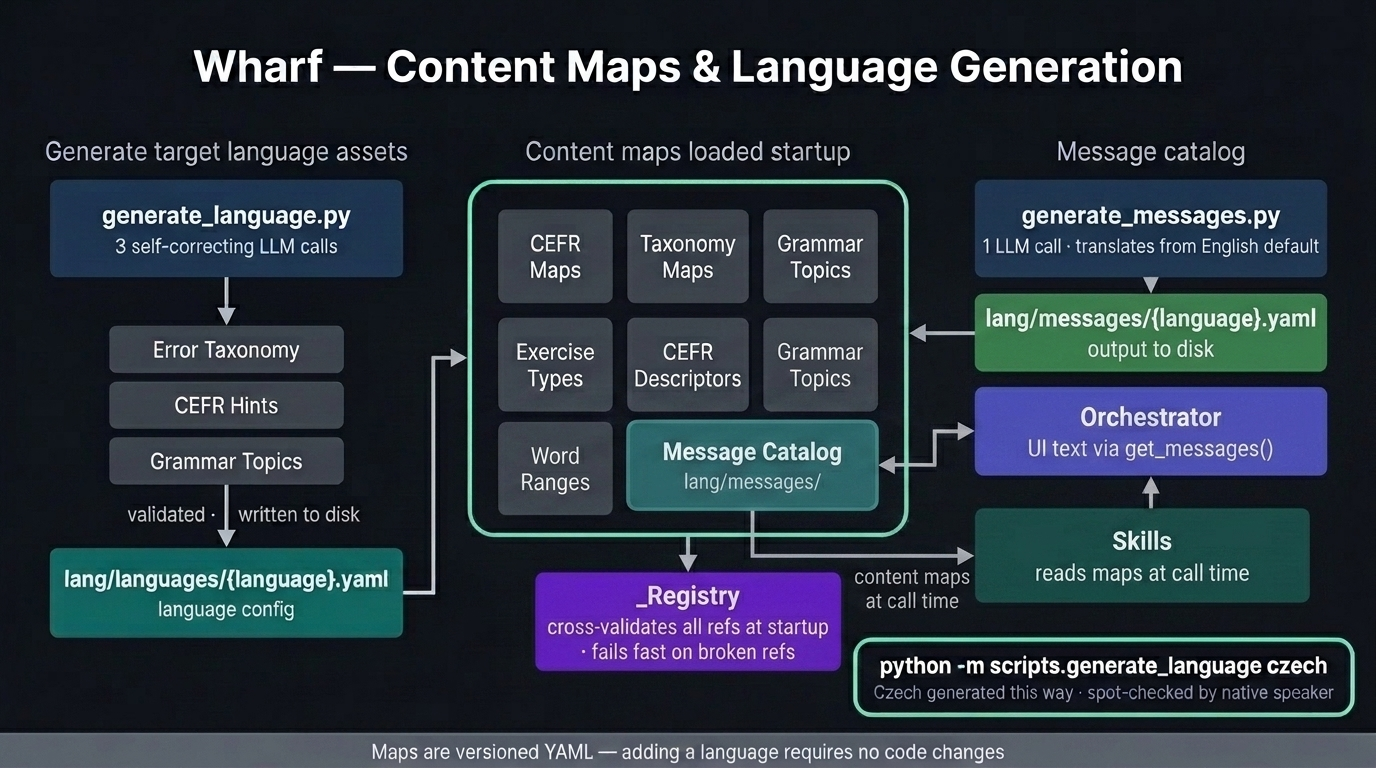
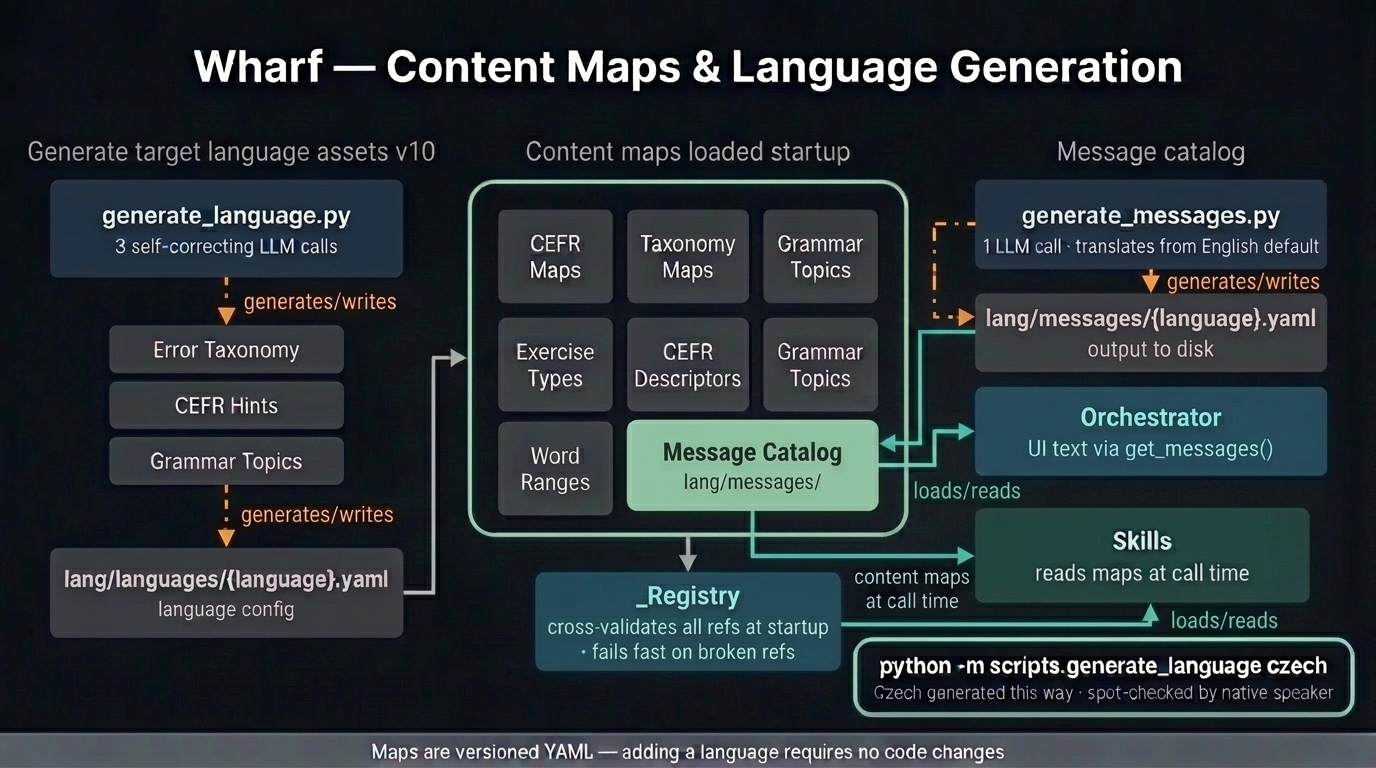
docs: add writeup draft, diagrams, README expansion, and competitive landscape update
- Add docs/kaggle_writeup_draft.md: full Kaggle capstone writeup covering problem,
  Three-Grain Architecture, personalization loop, language asset generation,
  deployability, testing strategy, and project journey
- Add docs/img/personalization_loop.jpg: visual flowchart of Writing<->Grammar loop
  including session routing, error logging, and topic mastery push-back
- Add docs/img/testing_strategy.jpg: three-tier testing strategy diagram
- Update docs/img/content_pipeline.jpg: fix arrow directionality and build-time vs
  run-time flow distinction (dashed orange = generates, solid teal = loads)
- Expand README.md: problem statement, architecture overview, layer status table,
  competitive landscape summary, and known limitations
- Update docs/competitive_landscape.md: verify and refresh competitor claims
- Update docs/_CHECKLIST.md: mark writeup, pricing, and diagram tasks as done

diff --git a/docs/kaggle_writeup_draft.md b/docs/kaggle_writeup_draft.md
@@ -1,0 +1,163 @@
+# Wharf: Demolishing the Paywall of Corrective Language Tutoring with a Multi-Agent Architecture
+
+### Capstone Writeup
+* **Track:** Agents for Good (Advancing Education)
+* **Author:** cookieTroll
+* **GitHub Repository:** [https://github.com/cookieTroll/language-tutor](https://github.com/cookieTroll/language-tutor)
+
+---
+
+## 1. Executive Summary & Problem Statement
+
+Wharf is a language learning tool built entirely around language output. This project was born out of a real-world struggle. After moving to Germany as a working professional with zero prior knowledge of German, I hit two massive roadblocks to achieving fluency:
+1. **The Production Bottleneck:** Traditional language apps focus on passive recognition like flashcards or clicking pre-arranged words. But to learn fast, you need active production such as writing and speaking, paired with immediate, corrective feedback.
+2. **The Flexibility and Cost Trap:** Private tutors are expensive, and group classes lock you into rigid schedules. Even in those settings, a teacher's bandwidth for grading essays and providing detailed, personalized feedback is limited.
+
+Large Language Models (LLMs) are uniquely suited to language processing, offering a natural solution. However, getting feedback from raw LLM chats (like pasting sentences into ChatGPT or Claude) is cumbersome. It forces you to juggle several different environments (chat web apps for translation, separate note files for error tracking, and flashcard apps for vocabulary review) and lacks good persistence. With no historical memory of what you have practiced, no error tracking, and no adaptive routing, every session starts from scratch.
+
+Wharf bridges this gap. It is a self-hosted, multi-agent AI language tutor designed to make corrected-output feedback free or almost free, private, and personalized. Operating on a client-owned LLM API key or a fully offline local model, Wharf tracks progress, identifies recurring errors, dynamically builds custom grammar exercises, and routes the student through a personalized learning path.
+
+---
+
+## 2. Why Agents? Beyond Single LLM Calls
+
+A simple "correct this text" prompt is insufficient for language learning. If a student is given a list of raw corrections, they do not learn *why* they were wrong, how it relates to their current proficiency level, or how to practice that specific grammatical concept.
+
+Wharf replaces the single-prompt approach with an agentic architecture that orchestrates multiple specialized components:
+- **Intelligent Routing:** The system decides whether to prompt the user for free-writing, recommend a targeted grammar lesson based on historical weaknesses, or continue a previous thread.
+- **Multi-Step Evaluation:** The writing evaluator is a structured pipeline that isolates concerns (e.g., level estimation, mistake detection, false-positive verification, pedagogical explanation) into separate steps, preventing LLM context dilution and hallucinations.
+- **Cross-Competency Bridge:** While commercial platforms offer basic streak and progress tracking, their competencies are siloed. Wharf integrates these: when a pattern of recurring errors is detected in the writing module, it triggers a state transition that dynamically recommends a custom grammar lesson and drill on the fly, bridging the two skills.
+- **Dynamic Asset Generation:** Adding support for a new target language requires synthesizing a pedagogical syllabus (CEFR hints, error taxonomies). Wharf utilizes a self-correcting agent chain to generate these YAML assets dynamically from scratch.
+
+---
+
+## 3. System Architecture & Core Design Decisions
+
+Wharf is implemented using a custom **Three-Grain Architecture** designed to enforce strict separation of concerns, testability, and load-bearing interface contracts. 
+
+![Wharf — Three-Grain Architecture](img/architecture.jpg)
+
+### Grain 1: Skills (Atomic Actions)
+Skills are the smallest functional units (e.g., `detect_mistakes`, `explain_mistakes`, `grade_exercises`). 
+* **Purity:** Skills are stateless and pure. They have no knowledge of the database, the active user, or specific provider SDKs. They receive input via typed dataclasses (`SkillInput`), call the LLM through a unified abstraction (`BaseLLM`), validate the JSON response using Pydantic, and return a typed `SkillOutput`.
+* **Shared Pool:** All skills reside in a top-level `skills/` directory. They are a shared, project-wide asset pool. For example, the `btw_handler` (an inline translation and Q&A assistant) is a utility skill that can be injected into any module.
+
+### Grain 2: Modules (Sub-Agents)
+Modules (e.g., `WritingModule`, `GrammarModule`) represent specific competencies. 
+* **Orchestration:** A module receives a set of injected skills and a `ModuleContext` (containing the user profile and past logs). It orchestrates the execution flow. For example, the `WritingModule` coordinates the 7-step evaluator pipeline.
+* **Storage-Decoupled:** Modules do not write to disk or query the database. They declare what data they need via a `ContextRequest` and return their outcomes via a `ModuleResult`.
+
+### Grain 3: Orchestrator (Top-Level Agent)
+The Orchestrator is the single, authoritative coordinator. 
+* **State & Persistence:** It is the only component allowed to touch the database (`memory/`). It handles cold starts, manages session checkpoints, aggregates logs, and persists session files, vocabulary flags, and mistake tags.
+* **Routing:** On startup, it reads the user’s history, builds a progress summary, and routes the student to the appropriate competency module.
+
+### The Memory Boundary & Protocols
+The boundary is enforced by code, not convention. Because modules and skills are pure and communicate via typed protocols (`ModuleProtocol`, `SkillProtocol`), they can be developed and tested in isolation without spawning a database or making real network calls.
+
+---
+
+## 4. The Centerpiece: The Writing↔Grammar Personalization Loop
+
+The core pedagogical value of Wharf lies in the bidirectional bridge between the Writing and Grammar competencies, sharing one history.
+
+![Wharf — Personalization Loop](img/personalization_loop.jpg)
+
+1. **Error Detection and Taxonomy Mapping:** 
+   When a student completes a writing session, their text is processed. The `detect_mistakes` skill highlights erroneous fragments. The `verify_mistakes` skill filters out false positives by double-checking the candidate errors against the sentence context. The `classify_mistakes` skill maps the errors to a structured, language-specific taxonomy (e.g., `verb_conjugation`, `noun_adjective_agreement`).
+
+2. **Pedagogical Explanation and Severity:** 
+   Feedback is calibrated to the student's current CEFR level. If an A2 student makes a B2-level error (e.g., complex subjunctive usage), the system flags it as `minor` and provides a brief hint. If they make a basic A1 error (e.g., subject-verb agreement), it is flagged as `critical` and triggers a detailed, structural explanation.
+
+3. **Routing to Grammar Drills:** 
+   The Orchestrator monitors the frequency of error tags. If a specific taxonomy tag recurs (frequency $\ge 2$) within the session logs, the Orchestrator generates a bridge recommendation. Upon starting the next session, the learner is prompted: *"We noticed a recurring issue with Verb-Second Word Order. Would you like to practice this now?"*
+
+4. **Dynamic Theory & Exercise Generation:** 
+   If accepted, the `GrammarModule` is invoked:
+   - `dump_grammar` generates a concise theory sheet for that specific error category.
+   - `generate_exercises` generates custom gap-fill or sentence-reformulation drills on the fly.
+   - `grade_exercises` evaluates the responses, updates the mastery ratio in the SQLite store, and registers vocabulary flags for terms the user queried mid-session via `/btw`.
+   
+Once a grammar topic is mastered, the bridge operates in reverse: the Orchestrator suggests a writing topic designed to elicit the newly mastered grammar pattern, closing the loop.
+
+---
+
+## 5. Automated Language Asset Generation (Validation vs. Rewrite)
+
+Supporting multiple target languages (L2) and different communication languages (L1) traditionally requires hand-crafting grammatical taxonomies, CEFR rules, and localized UI strings. This approach does not scale.
+
+Wharf solves this via a **data-driven language subsystem** (`lang/`). All language-specific rules, taxonomies, and localized UI strings reside in versioned YAML files (`lang/languages/` and `lang/messages/`). The loader (`lang/loader.py`) parses and cross-validates these references at startup, acting as a compiler that fails fast if files refer to non-existent maps.
+
+To add a language, a developer runs:
+```bash
+python -m scripts.generate_language czech
+```
+
+This script triggers a three-stage self-correcting agent pipeline:
+1. **Taxonomy Synthesis:** Generates a structured error taxonomy tailored to the target language's grammatical features.
+2. **Pedagogical Asset Generation:** Creates CEFR-specific hints and writing prompt requirements.
+3. **Grammar Curriculum Synthesis:** Establishes the roadmap of grammar topics to be taught.
+
+Each step is constrained by Pydantic schemas. If the generated YAML violates the registry's validation checks, the error is fed back to the LLM for self-correction. By using this pipeline, the target language **Czech** was generated from scratch. Native-speaker spot-checks confirmed that the output was highly accurate, proving that adding a language is a **validation task, not a codebase rewrite**.
+
+![Wharf — Automated Language Asset Generation](img/content_pipeline.jpg)
+
+---
+
+## 6. Deployability, Configuration & Security
+
+Wharf prioritizes user choice between cloud capability and absolute privacy, implementing key course concepts directly:
+
+### Configurable LLM Backend & Deployability
+A single configuration file switcher (`LTUT_CONFIG`) changes the execution environment without code modifications:
+- **Local Path (Ollama):** Targets local models (defaulting to `gemma2:9b`). Perfect for offline, zero-data-leak execution. Running locally requires suitable hardware (a dedicated GPU with ~6–8 GB VRAM to achieve acceptable token generation speeds). Local models represent the lower end of feedback accuracy compared to hosted commercial alternatives.
+- **Hosted Path (Gemini / Vertex AI):** Targets hosted models. A typical session (100-word essay evaluation or grammar drill) costs a fraction of a cent on `gemini-2.5-flash`. A full study monthly load of 60 sessions (2 sessions/day combining essay grading, grammar theory dumps, and exercises) runs **roughly €1 per month**. The prompt context (system prompts and taxonomy details) represents the bulk of the cost, making pricing highly flat and predictable. Furthermore, as a local library of generated lessons and exercises is gradually compiled, subsequent study sessions on those cached topics bypass the LLM entirely, reducing upkeep costs even further.
+- **Vertex AI:** Uses Application Default Credentials (ADC), allowing enterprises to authenticate natively via IAM without managing static keys.
+
+### Security Posture
+- **Key Isolation:** API keys are never hardcoded; `config.py` resolves `${VAR_NAME}` syntax against the operating system's environment variables at runtime.
+- **Strict Input/Output Validation:** Every LLM response is Pydantic-validated. All user-input strings are sanitized, and the web UI enforces path-traversal guards on file reads, checking that resolved paths stay strictly within the designated `data_root`.
+
+---
+
+## 7. Testing Strategy: Three-Tier Offline Testing & LLM-as-a-Judge
+
+To verify the agentic pipelines without generating massive API bills or relying on live connections, Wharf uses a three-tier testing architecture:
+
+![Wharf — Three-Tier Testing Strategy](img/testing_strategy.jpg)
+
+1. **Tier 1: Unit Tests (Deterministic)**
+   Wharf includes **379 unit tests** that execute in under 20 seconds. They run completely offline against a `MockLLM` and an isolated memory-resident JSON store, verifying state transitions, menu routing, and edge-case configs.
+
+2. **Tier 2: Semantic Evaluation (LLM-as-a-Judge)**
+   Because grading and correcting text are subjective, unit tests cannot verify quality. The `tests/judge/` suite implements a two-LLM judge framework:
+   - One model executes the skill (e.g., `detect_mistakes`).
+   - A separate, larger evaluator model grades the output against ground-truth student submissions.
+   - This suite was used to select the default local model: `gemma2:9b` achieved 12/12 correct evaluations on the mistake detection benchmark, whereas `qwen2.5:7b` failed 4 evaluations, setting `gemma2:9b` as our local baseline.
+
+3. **Tier 3: Regression Suite**
+   Whenever a prompt hallucination or bug is identified, a test case is added to the regression suite. The rule "Tests before commit" is enforced workspace-wide to ensure zero regression before code changes are merged.
+
+---
+
+## 8. Project Journey, Honest Scope & Limitations
+
+### Project Scope & Current Limitations
+Wharf is a functional tool, but it has defined boundaries:
+- **Language Scope:** The pedagogical taxonomies are fully validated for German (A1–B2). Czech has been generated and validated at the file level but has not been put through long-term student trials.
+- **Hardware Boundary:** While the hosted Gemini path runs on any lightweight client, the offline path requires suitable local hardware (a dedicated GPU with at least 6–8 GB VRAM to run the tutor model at usable speeds). Additionally, local models represent the lower end of grading and pedagogical accuracy compared to hosted commercial options.
+- **Bridge Horizon:** The writing↔grammar bridge computes recurring errors within a single session's scope. Cross-session historical aggregation is a planned improvement.
+- **Single-User Auth:** The current Flask web app is single-user or self-hosted, storing data relative to a local root folder. Multi-user SaaS deployment would require adding a web-security and OAuth layer.
+
+### What Was Learned & Future Outlook
+
+Building Wharf was a personal journey that allowed me to explore several advanced engineering paradigms:
+- **Local Model Serving:** Configured and evaluated offline models locally using Ollama, navigating the trade-offs of hardware requirements versus latency and accuracy.
+- **Strict Contractual Boundaries:** Designed a comprehensive project around a Three-Grain Architecture where interfaces are enforced by strict boundaries. Pure skills and modules communicate through explicit schemas, proving that LLM inputs/outputs can be caged safely.
+- **LLM-as-a-Judge Evaluation:** Implemented a two-LLM evaluation benchmark. While this was done in a limited scope (variance and temperature stability were not statistically tested), the test results were validated by manual reviews and served as a reliable baseline for model selection.
+- **Intent-Driven Coding:** Experienced intent-driven development by pairing with an agentic coder. Expressing design thoughts via high-level goals and letting the agent synthesize code, synchronize documentation, and run verification loops represents a fundamental shift from traditional coding paradigms.
+
+Since the core orchestrator and the memory boundaries are solid, expanding Wharf to other competencies is straightforward. The future roadmap includes:
+1. **Unified Vocabulary & Note Ingestion:** Building an OCR and LLM pipeline to process handwritten study notes and import them along with Anki cards into Wharf, making it a single place where vocabulary is tracked and revised.
+2. **Engaging Reading Module:** Developing a reading comprehension module connected to web media and articles, letting students read interesting content and answer contextual questions.
+3. **Listening & Speaking:** Tackling the most challenging competencies: first, a listening comprehension module, and second, an interactive speaking module leveraging text-to-speech and speech-to-text integrations.

diff --git a/docs/competitive_landscape.md b/docs/competitive_landscape.md
@@ -1,44 +1,48 @@
-# Competitive Landscape — Auto-Graded Writing
+# Competitive Landscape & Positioning
 
-Summary of how the writing module's auto-grading pipeline (`docs/writing.md`) compares to
-existing tools that give learners automated feedback on free-text writing. Written 2026-07-05
-for reference by other agents/collaborators working on this feature; re-verify claims before
-relying on them for anything time-sensitive (competitor products change).
+This document compares Wharf against commercial, academic, and general-purpose alternatives for language learning. It highlights how Wharf's architecture resolves the trade-offs between feedback quality, competency integration, language extensibility, and pricing.
 
-## Our pipeline, in one line
+---
 
-Free-text submission → parallel CEFR level estimate + mistake detection → context-based
-false-positive verification → per-language taxonomy classification → level-calibrated
-explanation → corrected rewrite + severity-tagged summary, with an inline `/btw` Q&A loop
-mid-session. See `modules/writing/pipeline.py`.
+## The Landscape: Where Competitors Fall Short
 
-## Closest comparators
+- **Gamified, Canned Curricula:** Apps like Duolingo prioritize engagement over depth, offering simple recognition tasks (matching, sorting) rather than free-text production. While they track your streak and progression through a linear, pre-authored lesson tree, they lack the ability to adapt their actual curriculum or exercises dynamically based on your free-form writing errors.
+- **Siloed Competency Apps:** Corrective writing tools (e.g., Cambridge Write & Improve) or grammar apps operate in isolation, lacking a shared memory of the user's strengths and weaknesses across skills.
+- **High Subscription Barriers:** Platforms that offer deep corrective feedback (e.g., Grammarly Premium, Duolingo Max, or premium human tutors) are locked behind high subscription paywalls ($10 to $30 per month).
 
-| Tool | Mechanism | Overlap | Gap vs. ours |
-|---|---|---|---|
-| **Cambridge Write & Improve** | Supervised ML classifier trained on 30M-word error-annotated corpus | Free-text submission, CEFR-aligned feedback, revision loop — nearest existing analog | English-only; no false-positive verification step, no error taxonomy, no severity tiers, no level-calibrated explanation depth |
-| **Duolingo Max** | GPT-4 "Explain My Answer" / roleplay | LLM-based feedback | Scoped to short in-lesson answers, not free-essay grading with structured error output |
-| **Busuu** | Human peer correction (native speakers) | Corrective feedback on learner writing | Not automated; quality/turnaround depends on volunteer availability (minutes to days) |
-| **Grammarly** | General-purpose grammar/style correction | Error detection + correction | No CEFR calibration, no L2 pedagogy, not multilingual for language-learning use |
-| Academic prototypes (CWLA/CEFR-J scoring, FeedbackWriter, GPT-4 L2 analytic assessment studies) | LLM/ML CEFR scoring | Validates the "LLM as writing-feedback engine" approach | Research prototypes, not shipped multilingual products |
+---
 
-Informal baseline: many learners just paste text into ChatGPT and ask for corrections. Our
-pipeline's edge over that is structural — verification, taxonomy, severity — not just "LLM
-graded my writing."
+## Detailed Competitor Comparison
 
-## Differentiation
+| Tool Class / Example | Core Focus & Depth | Language Support & Setup | Pricing Model | Gaps vs. Wharf |
+|---|---|---|---|---|
+| **Passive Drill Apps**<br>(e.g., Duolingo, Memrise) | **Shallow Recognition:** Mostly multiple-choice, reordering, and short translation drills. Duolingo Max offers "Roleplay" and "Video Call," but its "Explain My Answer" is restricted to pre-authored lesson prompts. | **Pre-authored Courses:** Limited language pairs. Adding a target language requires manually authoring an entire pedagogical tree. | Free basic (ad-supported); Super Duolingo (€10.25/mo annual); Duolingo Max (~€14.99/mo). Max is iOS/Android only. | No open free-text evaluation; rigid linear paths; no cross-competency adaptive memory. |
+| **Corrective Writing Engines**<br>(e.g., Cambridge Write & Improve) | **Deep Writing Feedback:** CEFR-aligned scoring, spelling/grammar corrections on free-text writing. | **English Only:** Built on a static, hand-annotated 30M-word English learner corpus. Cannot be extended to other target languages. | Free basic tier; paid packages for specialized exam preparation (e.g., IELTS, B2 First). | English-only; no grammar instruction; no session-to-session memory or personalization; no local execution. |
+| **General Proofreaders**<br>(e.g., Grammarly, LanguageTool Premium) | **Correction, Not Pedagogy:** Identifies grammatical and stylistic errors for native or professional writing. Does not explain the L2 rules or align feedback to the user's CEFR level. | **Fixed Major Languages:** Supports standard lists (LanguageTool supports ~30 languages). Cannot configure the explanation language independently. | Subscription-based. Grammarly Premium is $12–$30/mo; LanguageTool Premium is ~$19.90/mo (or ~$4.99/mo annual). | No pedagogical explanation; no CEFR-targeted feedback; no integrated curriculum or active memory. |
+| **Peer Correction Platforms**<br>(e.g., Busuu Community, Lang-8) | **Human Accuracy:** Native speakers verify and correct user-submitted writing. | **Any Language:** Dependent on active native speakers in the community. | Included in Busuu's free tier and premium plans ($6 to $15/month). | **Slow loop:** Feedback takes minutes to days. Quality is unstructured, variable, and relies on user reciprocity. |
+| **Raw LLM Prompting**<br>(e.g., ChatGPT / Claude Web App) | **High Versatility:** Strong translation, explanation, and error correction capabilities. | **Extremely Flexible:** Supports a vast array of target and explanation languages out of the box. | Free tiers (with data sharing/limits) or $20/mo subscription. | **No persistence:** Every chat starts from zero. Lacks persistent error tracking, progress statistics, and local execution. |
 
-No comparator bundles all of:
-1. **Multi-language taxonomy** (`lang/maps/taxonomy/`) rather than English-only.
-2. **False-positive verification** — re-checks each candidate error against sentence context
-   before it reaches the learner (`skills/verify_mistakes/`).
-3. **Severity tagging** (critical/expected/minor) alongside CEFR-calibrated explanation depth.
-4. **Inline `/btw` Q&A** during composition, not just post-hoc feedback.
+---
 
-Write & Improve is the strongest existing match in spirit but is English-only and lacks (2)-(4).
+## Wharf's Four Pillars of Differentiation
 
-## Open question for positioning
+### 1. Unified Competency Memory
+Commercial platforms typically silo different skills (e.g., vocabulary drills in one app, grammar in another, writing elsewhere). While some premium AI tiers (like Duolingo Max's review rounds or Busuu's vocabulary lists) track your history, their persistence is shallow. A mistake in a writing prompt does not trigger the app to automatically rewrite your curriculum, generate a targeted grammar theory sheet, and compose custom drills on the fly. Wharf solves this with a **Three-Grain Architecture** where all competencies share a single orchestrator and storage layer. 
+- *Bridged Competencies:* Today, the writing and grammar modules are bridged. If a user consistently struggles with "adjective endings" in writing, the Orchestrator automatically intercepts the error taxonomy and routes them to a targeted grammar session on that rule.
+- *Extensible Profile:* As reading, listening, and speaking modules are introduced post-submission, they will share the exact same user profile, vocabulary flags, and historical trend data.
 
-Since the strongest analog is free and English-only, the biggest differentiation value is
-likely in **non-English target languages with this level of structured pedagogy** — that gap
-isn't filled by any product found in this pass.
+### 2. Pedagogy & Structured Production Depth
+Rather than gamifying learning with quick recognition loops, Wharf forces learners to actively produce language:
+- **Writing Module:** Learner-composed free text is evaluated through a structured 7-step pipeline (estimate text level → detect mistakes → verify to eliminate false positives → classify against taxonomy → explain rules → write corrections → summarize session).
+- **Grammar Module:** Rather than serving static, pre-written exercises, Wharf generates a tailored grammatical theory explanation and custom exercises on the fly based on the learner's historic error tags.
+
+### 3. Language & Explanation Personalization (Validation, Not Rewrite)
+For target and explanation languages using Latin-based alphabets and supported by major LLM pretraining:
+- **Target Language Independence:** Adding a target language is data-driven. `scripts/generate_language.py` runs a 3-step self-correcting LLM chain (taxonomy → CEFR hints → grammar topics) and validates it against Pydantic schemas. Spot-checks on a smaller target language (Czech) verified that the generated assets are highly accurate out of the box, requiring only minor validation rather than manual development.
+- **Explanation Personalization:** The user can configure the `explanation_language` (e.g., getting Czech explanations for German grammar). UI strings are dynamically translated via message catalogs (`lang/messages/{language}.yaml`).
+
+### 4. Cost Disruption & Privacy
+Wharf shifts the economic model of language tutoring:
+- **Offline / Local Path (Ollama):** Run completely offline and free on local hardware. Note that this requires suitable hardware (a dedicated GPU with ~6–8 GB VRAM to run models like `gemma2:9b` or `qwen2.5:7b` at acceptable speeds). Furthermore, local models represent the lower end of grading and pedagogical accuracy compared to hosted commercial models, though they provide complete privacy.
+- **Hosted Path (Gemini / Vertex):** By leveraging the learner's own API keys (Gemini 2.5 Flash), a complete session (100-word writing evaluation or custom grammar drill) costs a fraction of a cent. A full study monthly load of 60 sessions (2 sessions/day) runs **roughly €1 per month**. The prompt overhead (system instructions and context) represents the bulk of the cost, making the price highly flat and predictable. Furthermore, as a local library of generated lessons and exercises is gradually compiled, subsequent study sessions on those cached topics bypass the LLM entirely, reducing upkeep costs even further.
+- This is a structural cost difference compared to automated correctors or AI features (like Duolingo Max at ~$15/mo or Grammarly Premium at $12–$30/mo) which charge fixed, high monthly subscription fees regardless of actual study volume.

diff --git a/README.md b/README.md
@@ -1,30 +1,28 @@
 # Wharf the Language Tutor
 
-An AI language tutor that gives you the corrected-output feedback loop normally locked
-behind a subscription — running on your own API key or a fully local model, free either way.
+Wharf is a language learning tool built entirely around language output. It is a self-hosted, multi-agent AI language tutor that provides the deep, corrected-output feedback loop normally locked behind a subscription. It runs on your own API key or a fully local model, free or almost free either way: 60 sessions per month costs roughly €1, which is less than a single espresso.
 
-## The Problem
+## The Problem: A Personal Journey
 
-Building fluency in a language requires producing it — writing, speaking — and getting
-corrective feedback on what you got wrong and why. That feedback loop is the part
-existing tools tend to get wrong:
+This project was born out of a real-world struggle. After moving to Germany as a working professional with zero prior knowledge of German, I hit two massive roadblocks to achieving fluency:
 
-- **Passive tools** (Duolingo and most drill apps) build recognition, not production.
-  They won't tell you why your sentence was wrong or how to fix it.
-- **Tools with genuine corrective feedback** (Cambridge Write & Improve, Grammarly's
-  advanced tier, tutored platforms) sit behind subscription paywalls — or require a
-  human tutor whose time is finite and shared across an entire class.
-- **Raw LLM prompting** (pasting into ChatGPT) gives you feedback, but with no memory
-  of what you've practiced, no error tracking, and no adaptive routing — every session
-  starts from zero.
+1. **The Production Bottleneck:** Traditional language apps focus on passive recognition like flashcards or clicking pre-arranged words. But to learn fast, you need active production such as writing and speaking, paired with immediate, corrective feedback.
+2. **The Flexibility and Cost Trap:** Private tutors are expensive, and group classes lock you into rigid schedules. Even in those settings, a teacher's bandwidth for grading essays and providing detailed, personalized feedback is limited.
 
-Wharf is built around one claim: corrected-output feedback should be free, persistent,
-and adaptive. It runs on your own API key (Gemini, Vertex AI) or a fully local model
-(Ollama — free, private, no data leaving your machine), and it remembers what you've
-practiced across every session.
+Large Language Models (LLMs) are uniquely suited to language processing, offering a natural solution. However, getting feedback from raw LLM chats (like pasting sentences into ChatGPT or Claude) is cumbersome. It forces you to juggle several different environments (chat web apps for translation, separate note files for error tracking, and flashcard apps for vocabulary review) and lacks good persistence. With no historical memory of what you have practiced, no error tracking, and no adaptive routing, every session starts from scratch.
 
-See [`docs/competitive_landscape.md`](docs/competitive_landscape.md) for a detailed
-comparison against named existing tools.
+Wharf bridges this gap by providing a structured, multi-agent feedback loop that is persistent, adaptive, and runs on your own API key or a fully offline local model.
+
+## Why Wharf? Key Differentiators
+
+Unlike generic AI chats or commercial language apps, Wharf is built on four core pillars:
+
+1. **Unified Competency Memory:** Instead of siloed exercises, progress is tracked globally. A mistake in writing automatically routes the student to a targeted grammar session on that topic.
+2. **True Language Independence (Validation, Not Rewrite):** The architecture is entirely data-driven via YAML maps. Supporting a new target language or explanation language does not require code changes — only running the generator script and a native speaker spot-check (as validated with Czech).
+3. **Structured Production Depth:** Moves past simple multiple-choice or sentence-reordering drills. Focuses on free-text writing evaluated by a 7-step pipeline (estimation, detection, verification, taxonomy classification, explanation, correction, summary).
+4. **Extreme Cost Disruption:** Runs completely free and local on suitable hardware, or costs **roughly €1 per month** for a standard study load of 60 sessions (e.g., 2 sessions/day combining essay grading, grammar dumps, and drills) using hosted `gemini-2.5-flash` API keys. This eliminates standard monthly subscription paywalls (€10 to €30/month) for advanced tutoring features.
+
+See [`docs/competitive_landscape.md`](docs/competitive_landscape.md) for a detailed comparison against named existing tools.
 
 ## What It Does
 
@@ -150,12 +148,8 @@ See [PROVIDERS.md](PROVIDERS.md) for full setup instructions per provider.
 
 - **Validated scope:** A1–B2 German is the tested range. Czech has been generated and
   spot-checked but not yet fully exercised end-to-end through a live grammar session.
-- **Cost (Gemini path):** a ~100-word writing session or a grammar topic dump + exercise
-  round typically runs a couple of cents on `gemini-2.5-flash`. Prompt length (accumulated
-  skill system prompts and context) dominates over the user's own text length, so cost
-  stays fairly flat across session lengths. The Ollama path is free.
-- **Local path needs a GPU:** `gemma2:9b` requires ~6 GB VRAM. The Gemini path has no
-  local hardware requirement.
+- **Cost (Gemini path):** A typical session (100-word essay evaluation or grammar topic dump + drill) costs a fraction of a cent on `gemini-2.5-flash`. A full study monthly load of 60 sessions (2 sessions/day) runs **roughly €1 per month**. The prompt context (system prompts and taxonomy details) represents the bulk of the cost, making pricing highly flat and predictable. Furthermore, as a local library of generated lessons and exercises is gradually compiled, subsequent study sessions on those cached topics bypass the LLM entirely, reducing upkeep costs even further.
+- **Local path requirements:** Running locally requires suitable hardware (a dedicated GPU with ~6–8 GB VRAM to run models like `gemma2:9b` or `qwen2.5:7b` at acceptable speeds). Offline execution is completely free, but local models represent the lower end of grading and pedagogical accuracy compared to hosted commercial models.
 - **Recurrence check is session-scoped:** the writing↔grammar bridge fires when an
   error tag recurs within a session's accumulated errors, not across an aggregate of all
   sessions. Cross-session aggregate memory is a planned improvement.

diff --git a/docs/_CHECKLIST.md b/docs/_CHECKLIST.md
@@ -23,14 +23,14 @@ Suggested order and why:
    *and* the source material the writeup and video architecture slide should be drawn
    from — do this before drafting either.
    - [x] [ ] [ ] README rewrite/expansion
-   - [ ] [ ] [ ] Fix `docs/img/content_pipeline.jpg` when image-gen quota resets (~4h): wire both Skills and Orchestrator arrows from `_Registry` (not from map tiles directly); remove Skills↔Orchestrator connection (runtime relationships live on architecture diagram)
+   - [x] [x] [x] Fix `docs/img/content_pipeline.jpg` when image-gen quota resets (~4h): wire both Skills and Orchestrator arrows from `_Registry` (not from map tiles directly); remove Skills↔Orchestrator connection (runtime relationships live on architecture diagram)
 2. **Market research & pricing** — before the writeup, not after, since the writeup's
    Deployability section depends on this number existing.
-   - [ ] [ ] [ ] Re-verify `docs/competitive_landscape.md`'s claims before relying on them (the doc's own note: competitor products change, written 2026-07-05)
-   - [ ] [ ] [ ] Confirm the "couple of cents per exercise" `gemini-2.5-flash` figure with an actual per-request token/cost estimate rather than a rounded gut number; decide where it lands (Deployability section, per `CAPSTONE_READINESS.md` §7's note)
+   - [x] [ ] [ ] Re-verify `docs/competitive_landscape.md`'s claims before relying on them (the doc's own note: competitor products change, written 2026-07-05)
+   - [x] [ ] [ ] Confirm the "couple of cents per exercise" `gemini-2.5-flash` figure with an actual per-request token/cost estimate rather than a rounded gut number; decide where it lands (Deployability section, per `CAPSTONE_READINESS.md` §7's note)
 3. **Kaggle writeup** — architecture decisions, design rationale, testing approach,
    honest PoC scope statement. Needs README + pricing settled first.
-   - [ ] [ ] [ ] Draft against the `CAPSTONE_READINESS.md` §11 word budget
+   - [x] [ ] [ ] Draft against the `CAPSTONE_READINESS.md` §11 word budget
 4. **Demo video** — one complete end-to-end session (≤5 min): startup → recommendation
    → writing → feedback → file written. Benefits from the writeup's framing being
    settled first (same "why agents"/architecture story), but can be shot in parallel.